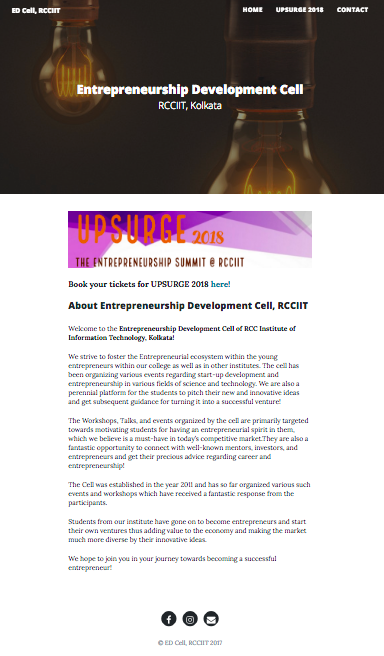
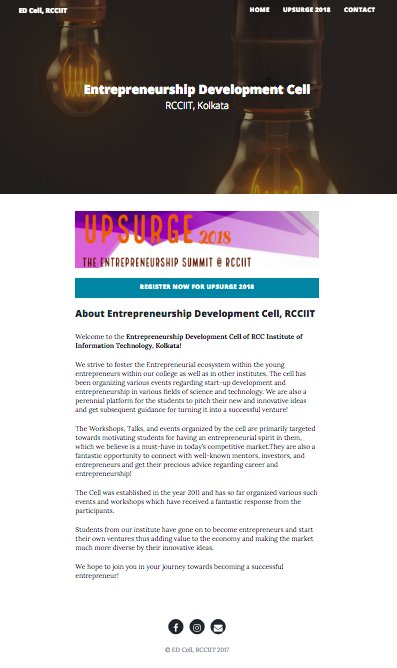
Added registration buton

diff --git a/index.html b/index.html
@@ -98,9 +98,12 @@
       <div class="row">
         <div class="col-lg-8 col-md-10 mx-auto book-link">
         	<a href="upsurge.html"><img class="upsurge-banner" src="img/upsurge-5.jpg" alt="Upsurge Banner"></a>
-        	<span class="bold">
-        		Book your tickets for UPSURGE 2018 <a onclick="window.open('https://www.townscript.com/widget/upsurge-the-entrepreneurship-fest-214323');" href="#">here!</a>
-        	</span>
+        	<a onclick="window.open('https://www.townscript.com/widget/upsurge-the-entrepreneurship-fest-214323');" href="#">
+        		<button type="button" class="btn btn-primary" style="width: 100%">Register Now For Upsurge 2018</button>
+        	</a>
+        	<!--<span class="bold">
+        		<br>Book your tickets for UPSURGE 2018 <a onclick="window.open('https://www.townscript.com/widget/upsurge-the-entrepreneurship-fest-214323');" href="#">here!</a>
+        	</span>-->
         </div>
         <div class="col-lg-8 col-md-10 mx-auto">
           <h3>About Entrepreneurship Development Cell, RCCIIT</h3>
